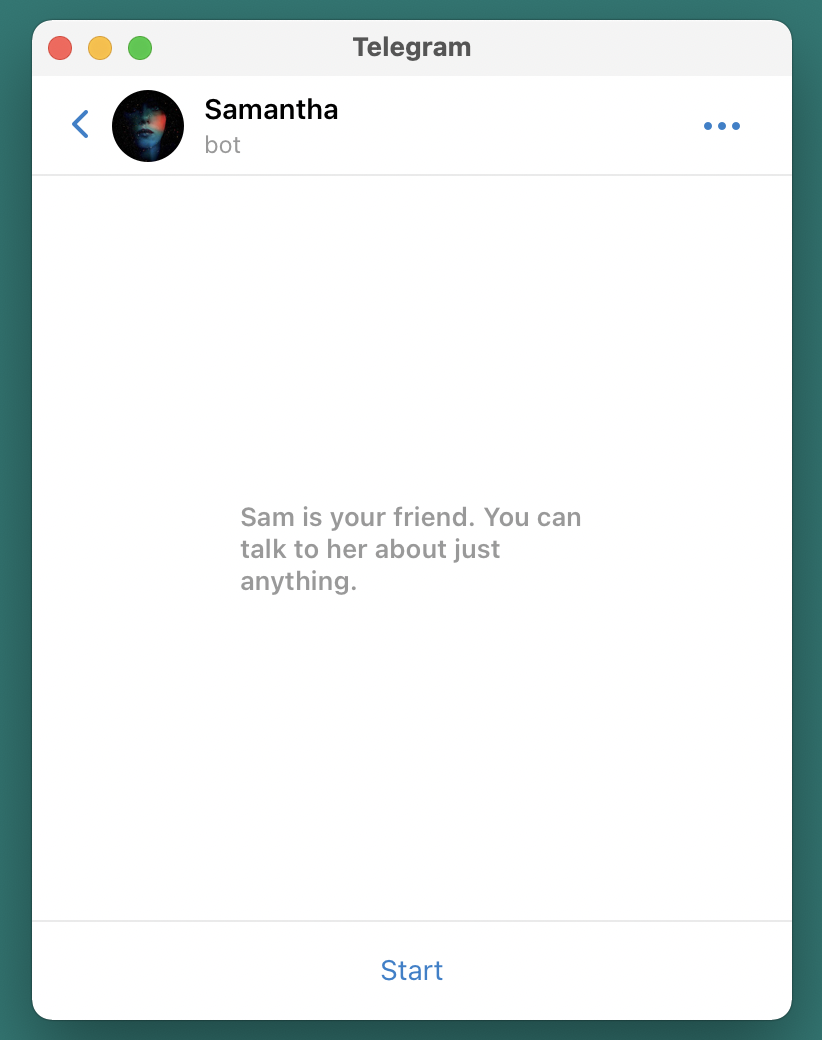
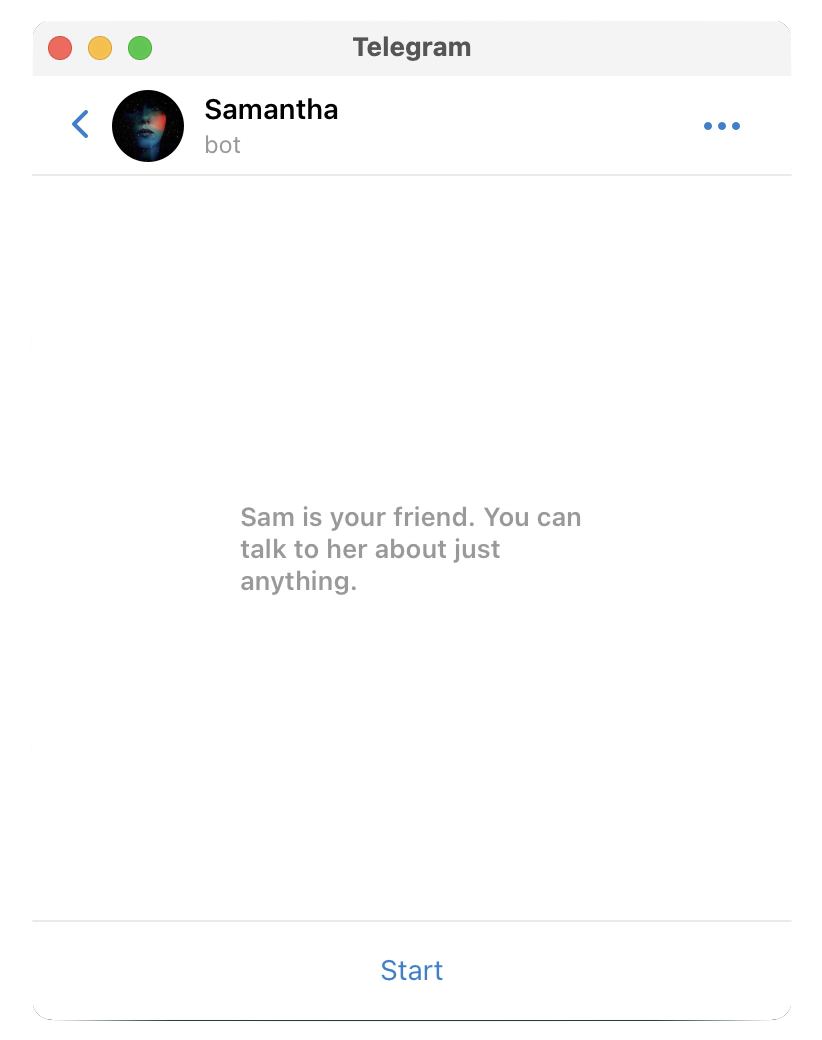
changed

Changed region(s): [[0.0, 0.0, 1.0, 1.0]]

diff --git a/openai/sam.md b/openai/sam.md
@@ -4,6 +4,6 @@ A chatbot capable of having natural conversations. Part of Uli's OpenAI GPT-3 re
 
 Samantha is your friend. Talk to her about just anything.
 
-![](./sam1.jpg)
+![](./sam1.png)
 
-![](sam2.jpg)
+![](sam2.png)
